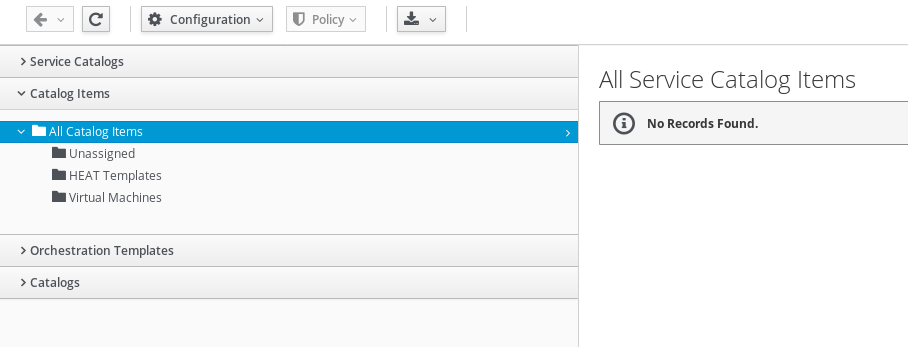
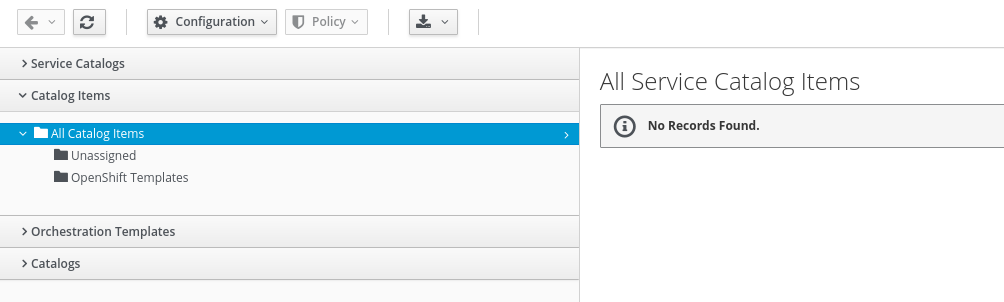
adding Andres' changes

Changed region(s): [[0.0, 0.0, 1.0, 0.6258], [0.0, 0.6556, 0.6476, 0.894], [0.0, 0.9238, 0.5551, 0.9536]]

diff --git a/self-service-portal-with-cloudforms/lab/index.md b/self-service-portal-with-cloudforms/lab/index.md
@@ -37,16 +37,16 @@
     - [Advanced labs](#advanced-labs)
         - [Use the Self Service user Interface](#use-the-self-service-user-interface)
         - [Use role Based Access Control to publish Service Catalog](#use-role-based-access-control-to-publish-service-catalog)
-        - [User Groups](#user-groups)
-        - [Roles](#roles)
-        - [More details](#more-details)
-        - [Create a Role](#create-a-role)
-        - [Create a new Group](#create-a-new-group)
-        - [Create a new User](#create-a-new-user)
-        - [Test user Joe Doe](#test-user-joe-doe)
-        - [Grant access to certain Catalog Items](#grant-access-to-certain-catalog-items)
-        - [Test once more as Joe Doe](#test-once-more-as-joe-doe)
-    - [Even more?](#even-more)
+            - [User Groups](#user-groups)
+            - [Roles](#roles)
+            - [More details](#more-details)
+            - [Create a Role](#create-a-role)
+            - [Create a new Group](#create-a-new-group)
+            - [Create a new User](#create-a-new-user)
+            - [Test user Joe Doe](#test-user-joe-doe)
+            - [Grant access to certain Catalog Items](#grant-access-to-certain-catalog-items)
+            - [Test once more as Joe Doe](#test-once-more-as-joe-doe)
+        - [Even more?](#even-more)
 
 <!-- /TOC -->
 
@@ -98,7 +98,7 @@ Let's then check the RHV Provider:
 
     ![navigate to cloud providers](../../common/img/navigate-to-compute-infrastructure-providers.png)
 
-1. You should see a tile icon labeled "OpenStack". Click on it.
+1. You should see a tile icon labeled "RHV". Click on it.
 
     ![OpenStack provider tile icon](../../common/img/rhv-provider-tile.png)
 
@@ -184,9 +184,9 @@ Follow these steps to design the service dialog:
 
 1. Chose a label and description:
 
-    ***Label***: Simple VM
+    ***Dialog's name***: Simple VM
 
-    ***Description***: Simple VM provisioning dialog
+    ***Dialog's Description***: Simple VM provisioning dialog
 
     ***Note:*** Do not try to save the changes right now! The dialog is not finished and you will receive and error message ("Validation failed: Dialog Simple VM must have at least one Tab")
 
@@ -370,9 +370,11 @@ To tie everything together, the last step is to define a service catalog item.
 
     For automatic naming chose "changeme"
 
-    ***Naming:*** changeme
+    ***VM Name:*** changeme
 
     If no name is specified, this will cause CloudForms to automatically assign a name based on "cfme" as a prefix. The name will be expanded with a unique ID starting with 001.
+
+    Also make sure the ***Provision Type*** is "Native Clone" and do not change this value.
 
 1. Click on the sub tab ***Environment***
 
@@ -554,7 +556,7 @@ To put everything together we create a Service Catalog Item similar to before.
 
 1. In the ***Configuration*** Menu, click on ***Add a New Catalog Item***
 
-1. Chose the Catalog Item Type. For this example we want to use HEAT on OpenStack which is an Orchestration provider, so click on ***OpenShift Template***
+1. Chose the Catalog Item Type. For this example we want to use OpenShift, so click on ***OpenShift Template***
 
     ![select catalog item type](../../common/img/select-catalog-item-type-openshift.png)
 
@@ -580,7 +582,7 @@ To put everything together we create a Service Catalog Item similar to before.
 
     ***Dialog:*** cakephp-mysql-example
 
-    Select on which provider the HEAT Template should be executed:
+    Select on which provider the OpenShift Template should be executed:
 
     ***Provider:*** OpenShift
 
@@ -671,7 +673,7 @@ In the first part of the lab you have learned:
 
 In the second part of the lab, we want to use HEAT to create a new instance and to provision an application inside the instance. We are using the probably most popular example: [Wordpress](www.wordpress.org). The HEAT template we use, can be found in the [OpenStack Git Repository](https://github.com/openstack/heat-templates/blob/master/hot/F20/WordPress_Native.yaml).
 
-In the previous lab, we had to create a Service Dialog manually. With HEAT, CloudFormations and Microsoft ARM Templates, CloudForms can automatically create a Service Dialog for us. We can still edit this automatically created Service Dialog, to adjust it to our needs.
+Earlier in this lab, we had to create a Service Dialog manually. For a number of templates CloudForms can create a Service Dialog automatically. In this lab we will see how we can create a Service Dialog from a HEAT template. We can still edit this automatically created Service Dialog to adjust it to our needs.
 
 ### Prepare the HEAT Template
 
@@ -909,7 +911,7 @@ TODO: I can not test this, because the dynamic dialog "available_tenants" does n
 
     ***Stack Name:*** wordpress001
 
-    For all other fields the provided default values can be accepted. Note that the image name is "rhel7.2" as you specified in your dialog.
+    For all other fields the provided default values can be accepted. Note that the image name is "rhel7" as you specified in your dialog.
 
     ![order HEAT template](../../common/img/order-wordpress-heat-template.png)
 
@@ -920,40 +922,6 @@ TODO: I can not test this, because the dynamic dialog "available_tenants" does n
     ***Note:*** Since we are using nested virtualization to run these labs, performs will be slow and it can take several minutes to complete the request (20-30 minutes).
 
     ![after ordering heat service catalog item](../../common/img/after-ordering-heat.png)
-
-### Verify provisioning in OpenStack
-
-Let's log into OpenStack to see what's happening there.
-
-1. Log into OpenStack:
-
-    [https://osp-&lt;GUID&gt;.https://osp-<GUID>.rhpds.opentlc.com](https://osp-&lt;GUID&gt;.https://osp-<GUID>.rhpds.opentlc.com)
-
-    ***Note:*** Make sure you use the HTTPS URL!
-
-    ***username:*** admin
-
-    ***Password:*** r3dh4t1!
-
-    ![dashboard after login](../../common/img/osp-after-login.png)
-
-1. Navigate to ***Project*** in the menu bar on the top
-
-    ![navigate to project](../../common/img/osp-navigate-to-project.png)
-
-1. Navigate to ***Orchestration*** -> ***Stacks***
-
-    ![navigate to orchestration stacks](../../common/img/osp-navigate-to-stacks.png)
-
-1. You should see your stack. It might already be completed or still in progress. If you can't see it yet, wait a minute and reload the page.
-
-    ![stack completed](../../common/img/osp-stack-completed.png)
-
-1. Click on the stack to get the details
-
-    ![stack details](../../common/img/osp-stack-details.png)
-
-This concludes this section of the lab.
 
 ## Advanced labs
 
@@ -977,21 +945,25 @@ CloudForms offers a very granular system for role Based Access Control (RBAC). T
 
 In this advanced lab we want only specific Catalog Items to be available for certain user groups. CloudForms is using tags to identify objects. For example, if a Service Catalog Item is tagged as "Department Engineering" only users which are in a group which is also tagged as "Department Engineering" will see and be able to order this Catalog Item.
 
-### User Groups
+***Note:*** The following parts of the lab are using the "Operations UI" or "Classic UI". Make sure to switch back to it by using the original URL:
+
+[https://cf-&lt;GUID&gt;.labs.rhepds.com/](https://cf-&lt;GUID&gt;.labs.rhepds.com/)
+
+#### User Groups
 
 A user is always member of at least one user group. The group defines the visibility granted to all member users. For example, members of the group "Department Engineering" can see all objects tagged with this tag.
 
-### Roles
+#### Roles
 
 The role defines which actions are allowed to groups associated to this role. For example the role can grant the privilege to start or stop Virtual Machines, manage Service Catalog items, or define and use reports.
 
 Since roles can be associated to multiple groups, they can be reused. A user in Department Engineering might have the same privileges as a user in Department Sales, but they will see different objects which they can interact with.
 
-### More details
+#### More details
 
 If you want to learn more about CloudForms' Role Based Access Control, you can read the [official product documentation](https://access.redhat.com/documentation/en/red-hat-cloudforms/). The chapter [access control](https://access.redhat.com/documentation/en-us/red_hat_cloudforms/4.5/html/general_configuration/configuration#access-control) in the [General Configuration](https://access.redhat.com/documentation/en-us/red_hat_cloudforms/4.5/html/general_configuration/) Guide also provides more background information. Last but not least, there is a good summary about [Using Tags for Access Control](http://cloudformsblog.redhat.com/2016/10/13/using-tags-for-access-control/) on the [official CloudForms Blog](http://cloudformsblog.redhat.com).
 
-### Create a Role
+#### Create a Role
 
 For this lab, we first want to create a role which we want to use for testing.
 
@@ -1031,7 +1003,7 @@ For this lab, we first want to create a role which we want to use for testing.
 
     ![add a new group](../../common/img/add-new-group.png)
 
-### Create a new Group
+#### Create a new Group
 
 Next we want to create a group and assign it to the role we just created.
 
@@ -1055,7 +1027,7 @@ Next we want to create a group and assign it to the role we just created.
 
 1. Click on ***Add*** to create this new group
 
-### Create a new User
+#### Create a new User
 
 Finally we want to create a user which is a member of the group we just created.
 
@@ -1083,7 +1055,7 @@ Finally we want to create a user which is a member of the group we just created.
 
     Click on ***Add*** to create the user
 
-### Test user Joe Doe
+#### Test user Joe Doe
 
 So far we have not assigned any objects to the new group, but we have granted very specific rights to members of that group.
 
@@ -1115,7 +1087,7 @@ Let's see what happens if we log into CloudForms as "Joe Doe".
 
     ![logout](../../common/img/logout.png)
 
-### Grant access to certain Catalog Items
+#### Grant access to certain Catalog Items
 
 We want to make one Catalog Item available to all users which are members of the "Self Service Engineering" group.
 
@@ -1143,7 +1115,7 @@ We want to make one Catalog Item available to all users which are members of the
 
 1. Click ***Save*** to commit the changes
 
-### Test once more as Joe Doe
+#### Test once more as Joe Doe
 
 We want to do another test and see if the user Joe Doe can now see and other the Catalog Item.
 
@@ -1165,7 +1137,7 @@ We want to do another test and see if the user Joe Doe can now see and other the
 
 1. If you want, you can order the Service Catalog Item and should see that it will be deployed perfectly.
 
-## Even more?
+### Even more?
 
 If you're already done and still have some time left, here are some ideas for advanced labs:
 
